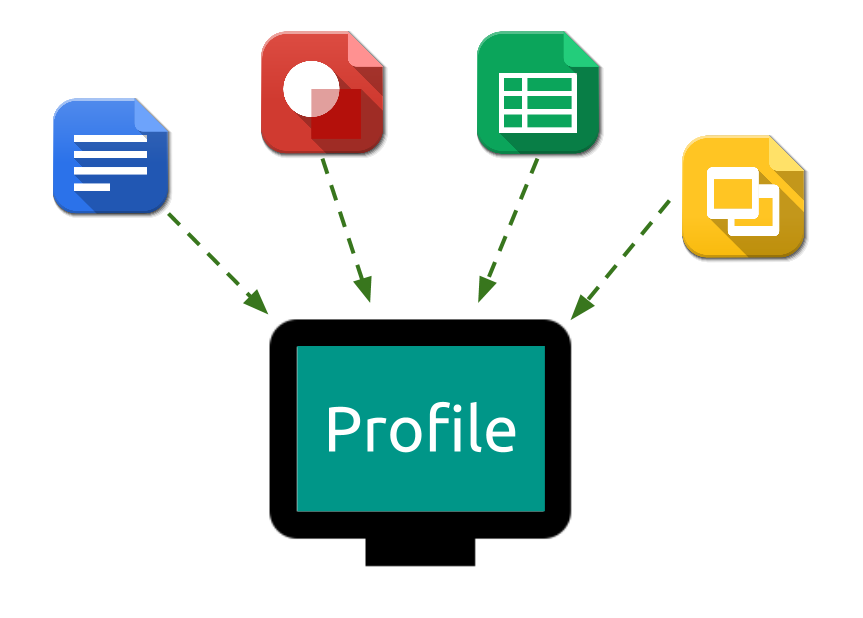
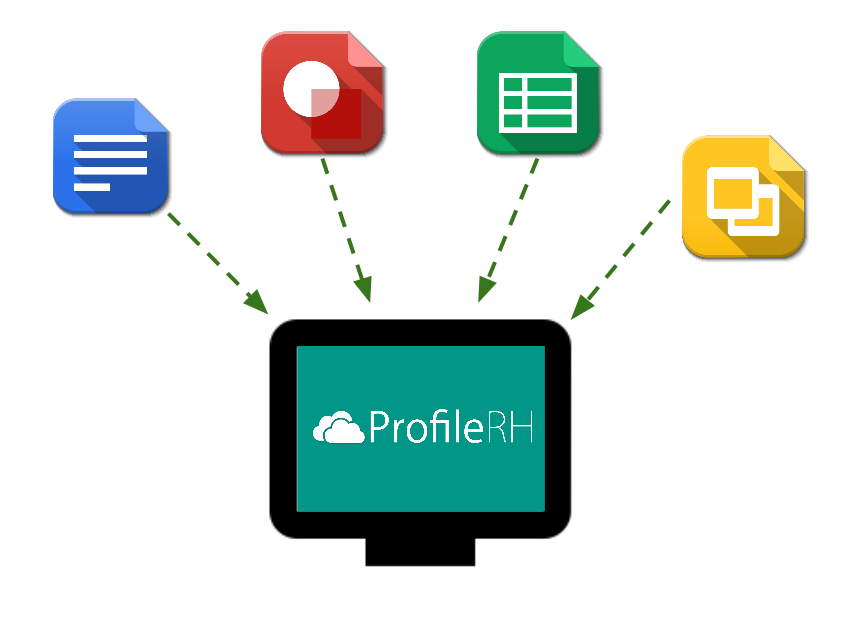
Modification du formulaire

Changed region(s): [[0.3615, 0.6456, 0.6025, 0.7379]]

diff --git a/app/index.html b/app/index.html
@@ -5,7 +5,7 @@
     <meta http-equiv="X-UA-Compatible" content="IE=edge">
     <meta name="description" content="A front-end template that helps you build fast, modern mobile web apps.">
     <meta name="viewport" content="width=device-width, initial-scale=1">
-    <title>Profile</title>
+    <title>ProfileRH</title>
 
     <!-- Add to homescreen -->
     <link rel="manifest" href="manifest.json">
@@ -94,7 +94,7 @@
         <div class="shadow-z-1 g--third simple-card ">
           <h2 class="centered themed">Tout en un</h2>
           <p class="centered">
-            Profile relie vos différents systèmes RH en <span class="themed">un seul tableau</span> de bord. Vous pouvez tout gérer en <span class="themed">un seul endroit </span>, en vous affranchissant de la paperasse.
+            ProfileRH relie vos différents systèmes RH en <span class="themed">un seul tableau</span> de bord. Vous pouvez tout gérer en <span class="themed">un seul endroit </span>, en vous affranchissant de la paperasse.
           </p>
           <span class="icon-circle--large themed--background card-icon">
             <i class="icon icon-multi-device-layouts"></i>
@@ -103,7 +103,7 @@
         <div class="shadow-z-1 g--third theme--performance simple-card">
           <h2 class="centered themed">Gagnez du temps</h2>
           <p class="centered">
-            Profile gère vos assurances maladie, congés, recrutement, fiche de paie, etc. en <span class="themed">ligne</span> et <span class="themed">automatiquement</span>
+            ProfileRH gère vos assurances maladie, congés, recrutement, fiche de paie, etc. en <span class="themed">ligne</span> et <span class="themed">automatiquement</span>
           </p>
           <span class="icon-circle--large themed--background card-icon">
             <i class="icon icon-chevron-right"></i>
@@ -112,7 +112,7 @@
         <div class="shadow-z-1 g--third theme--introduction-to-media simple-card">
           <h2 class="centered themed">Gagnez de l'argent</h2>
           <p class="centered">
-            Vous économiserez de l'argent sur plusieurs fronts, avec une gestion <span class="themed">RH optimisée</span> à travers le logiciel Profile.
+            Vous économiserez de l'argent sur plusieurs fronts, avec une gestion <span class="themed">RH optimisée</span> à travers le logiciel ProfileRH.
           </p>
           <span class="icon-circle--large themed--background card-icon">
             <i class="icon icon-performance"></i>
@@ -127,17 +127,17 @@
           </div>
           <div class="col-md-4">
             <div class="text-center text">
-              Profile centralise la gestion de tous les documents dont vous pourriez avoir besoin tels que les fiches de paie, les assurances maladies, ...
+              ProfileRH centralise la gestion de tous les documents dont vous pourriez avoir besoin tels que les fiches de paie, les assurances maladies, ...
             </div>
           </div>
         </div>
       </div>
       <div class="section center-block theme--multi-device-layouts shadow-z-1" id="section-21">
-        <h2 class="text-center title-text">Vous ne savez pas où aller ? Profile peut vous aider</h2>
+        <h2 class="text-center title-text">Vous ne savez pas où aller ? ProfileRH peut vous aider</h2>
         <div class="center-block row">
           <div class="col-md-4 center-block text-left-block">
             <div class="text-center text-left">
-              Profile vous propose la en relation avec les professionnels dont vous avez besoin tels que les mutuelles, les assurances, ...
+              ProfileRH vous propose la en relation avec les professionnels dont vous avez besoin tels que les mutuelles, les assurances, ...
             </div>
           </div>
           <div class="col-md-6">
@@ -146,14 +146,14 @@
         </div>
       </div>
       <div class="section center-block theme--multi-device-layouts shadow-z-1" id="section-22">
-        <h2 class="text-center title-text">Profile a pour but de vous simplifier la vie</h2>
+        <h2 class="text-center title-text">ProfileRH a pour but de vous simplifier la vie</h2>
         <div class="center-block row">
           <div class="col-md-6 centered">
             <img src="images/profilerh-simple.png">
           </div>
           <div class="col-md-4">
             <div class="text-center text">
-              Le travail de RH n'est pas forcement simple et demande beaucoup de compétences et de connaissances. Profile a pour objectif de rendre ce travail plus simple afin de pouvoir vous concentrer sur VOTRE entreprise.
+              Le travail de RH n'est pas forcement simple et demande beaucoup de compétences et de connaissances. ProfileRH a pour objectif de rendre ce travail plus simple afin de pouvoir vous concentrer sur VOTRE entreprise.
             </div>
           </div>
         </div>
@@ -163,7 +163,7 @@
         <div class="center-block row">
           <div class="col-md-4 center-block text-left-block">
             <div class="text-center text-left">
-              Profile dispose d'une API permettant de le connecter avec le monde extérieur. Vous ne pouvez pas vous passer d'un de vos outils ? integrez le a Profile !
+              ProfileRH dispose d'une API permettant de le connecter avec le monde extérieur. Vous ne pouvez pas vous passer d'un de vos outils ? integrez le a ProfileRH !
             </div>
           </div>
           <div class="col-md-6">
@@ -182,9 +182,7 @@
                   <span class="name">Guillaume PENOT</span><br/>
                   <span class="job">CEO</span><br/>
                   <div class="social-icon-list">
-                    <img src="images/social-media-icon/32x32%20PNG/googleplus.png" class="img-circle" alt=""/>
                     <img src="images/social-media-icon/32x32%20PNG/linkedin.png" class="img-circle" alt=""/>
-                    <img src="images/social-media-icon/32x32%20PNG/github.png" class="img-circle" alt=""/>
                   </div>
                   <span class="description"></span><br/>
                 </p>
@@ -200,9 +198,7 @@
                   <span class="name">Marc-Antoine SERGEANT</span><br/>
                   <span class="job">COO</span><br/>
                   <div class="social-icon-list">
-                    <img src="images/social-media-icon/32x32%20PNG/googleplus.png" class="img-circle" alt=""/>
                     <img src="images/social-media-icon/32x32%20PNG/linkedin.png" class="img-circle" alt=""/>
-                    <img src="images/social-media-icon/32x32%20PNG/github.png" class="img-circle" alt=""/>
                   </div>
                   <span class="description"></span><br/>
                 </p>
@@ -220,9 +216,7 @@
                   <span class="name">Thomas CATTY</span><br/>
                   <span class="job">CTO</span><br/>
                   <div class="social-icon-list">
-                    <img src="images/social-media-icon/32x32%20PNG/googleplus.png" class="img-circle" alt=""/>
                     <img src="images/social-media-icon/32x32%20PNG/linkedin.png" class="img-circle" alt=""/>
-                    <img src="images/social-media-icon/32x32%20PNG/github.png" class="img-circle" alt=""/>
                   </div>
                   <span class="description"></span><br/>
                 </p>
@@ -238,9 +232,7 @@
                   <span class="name">Alexandre DECENEUX</span><br/>
                   <span class="job">Développeur</span><br/>
                   <div class="social-icon-list">
-                    <img src="images/social-media-icon/32x32%20PNG/googleplus.png" class="img-circle" alt=""/>
                     <img src="images/social-media-icon/32x32%20PNG/linkedin.png" class="img-circle" alt=""/>
-                    <img src="images/social-media-icon/32x32%20PNG/github.png" class="img-circle" alt=""/>
                   </div><br/>
                   <span class="description">Etudiant a Epitech</span>
                 </p>
@@ -258,9 +250,7 @@
                   <span class="name">Kévin PLATEL</span><br/>
                   <span class="job">Développeur</span><br/>
                   <div class="social-icon-list">
-                    <img src="images/social-media-icon/32x32%20PNG/googleplus.png" class="img-circle" alt=""/>
                     <img src="images/social-media-icon/32x32%20PNG/linkedin.png" class="img-circle" alt=""/>
-                    <img src="images/social-media-icon/32x32%20PNG/github.png" class="img-circle" alt=""/>
                   </div><br/>
                   <span class="description">Etudiant à Epitech</span>
                 </p>
@@ -272,12 +262,10 @@
       <div class="section center-block theme--multi-device-layouts shadow-z-2" id="contact">
         <div class="col-md-6 social-network">
           <p>
-            Suivez Profile à travers les réseaux sociaux
+            Suivez ProfileRH à travers les réseaux sociaux
           </p>
           <div>
             <img src="images/social-media-icon/64x64%20PNG/googleplus.png" class="img-circle" alt=""/>
-            <img src="images/social-media-icon/64x64%20PNG/linkedin.png" class="img-circle" alt=""/>
-            <img src="images/social-media-icon/64x64%20PNG/github.png" class="img-circle" alt=""/>
             <img src="images/social-media-icon/64x64%20PNG/facebook.png" class="img-circle" alt=""/>
           </div>
         </div>
@@ -306,7 +294,7 @@
         </div>
       </div>
       <footer class="section center-block theme--multi-device-layouts" id="footer">
-        <p>All right reserved to Profile</p>
+        <p>All right reserved to ProfileRH</p>
       </footer>
     </main>
 
@@ -320,12 +308,17 @@
         var email = $("#email").val();
         var subject = $("#subject").val();
         var content = $("#content").val();
+
+        if (subject === "" || content === "") {
+          toastr.warning("Merci de remplir tout les champs avant d'envoyer votre message");
+          return;
+        }
+
         var data = {"email": email, "subject": subject, "content": content};
-        console.log(data);
         var posting = $.post("/contact", data);
         posting.done(function(data) {
           console.log("Receive: "+ data);
-          toastr.info("Message reçu");
+          toastr.info("Votre message à bien été reçu par nos équipe");
         });
         posting.fail(function() {
           toastr.warning("Erreur lors de l'envoie");
